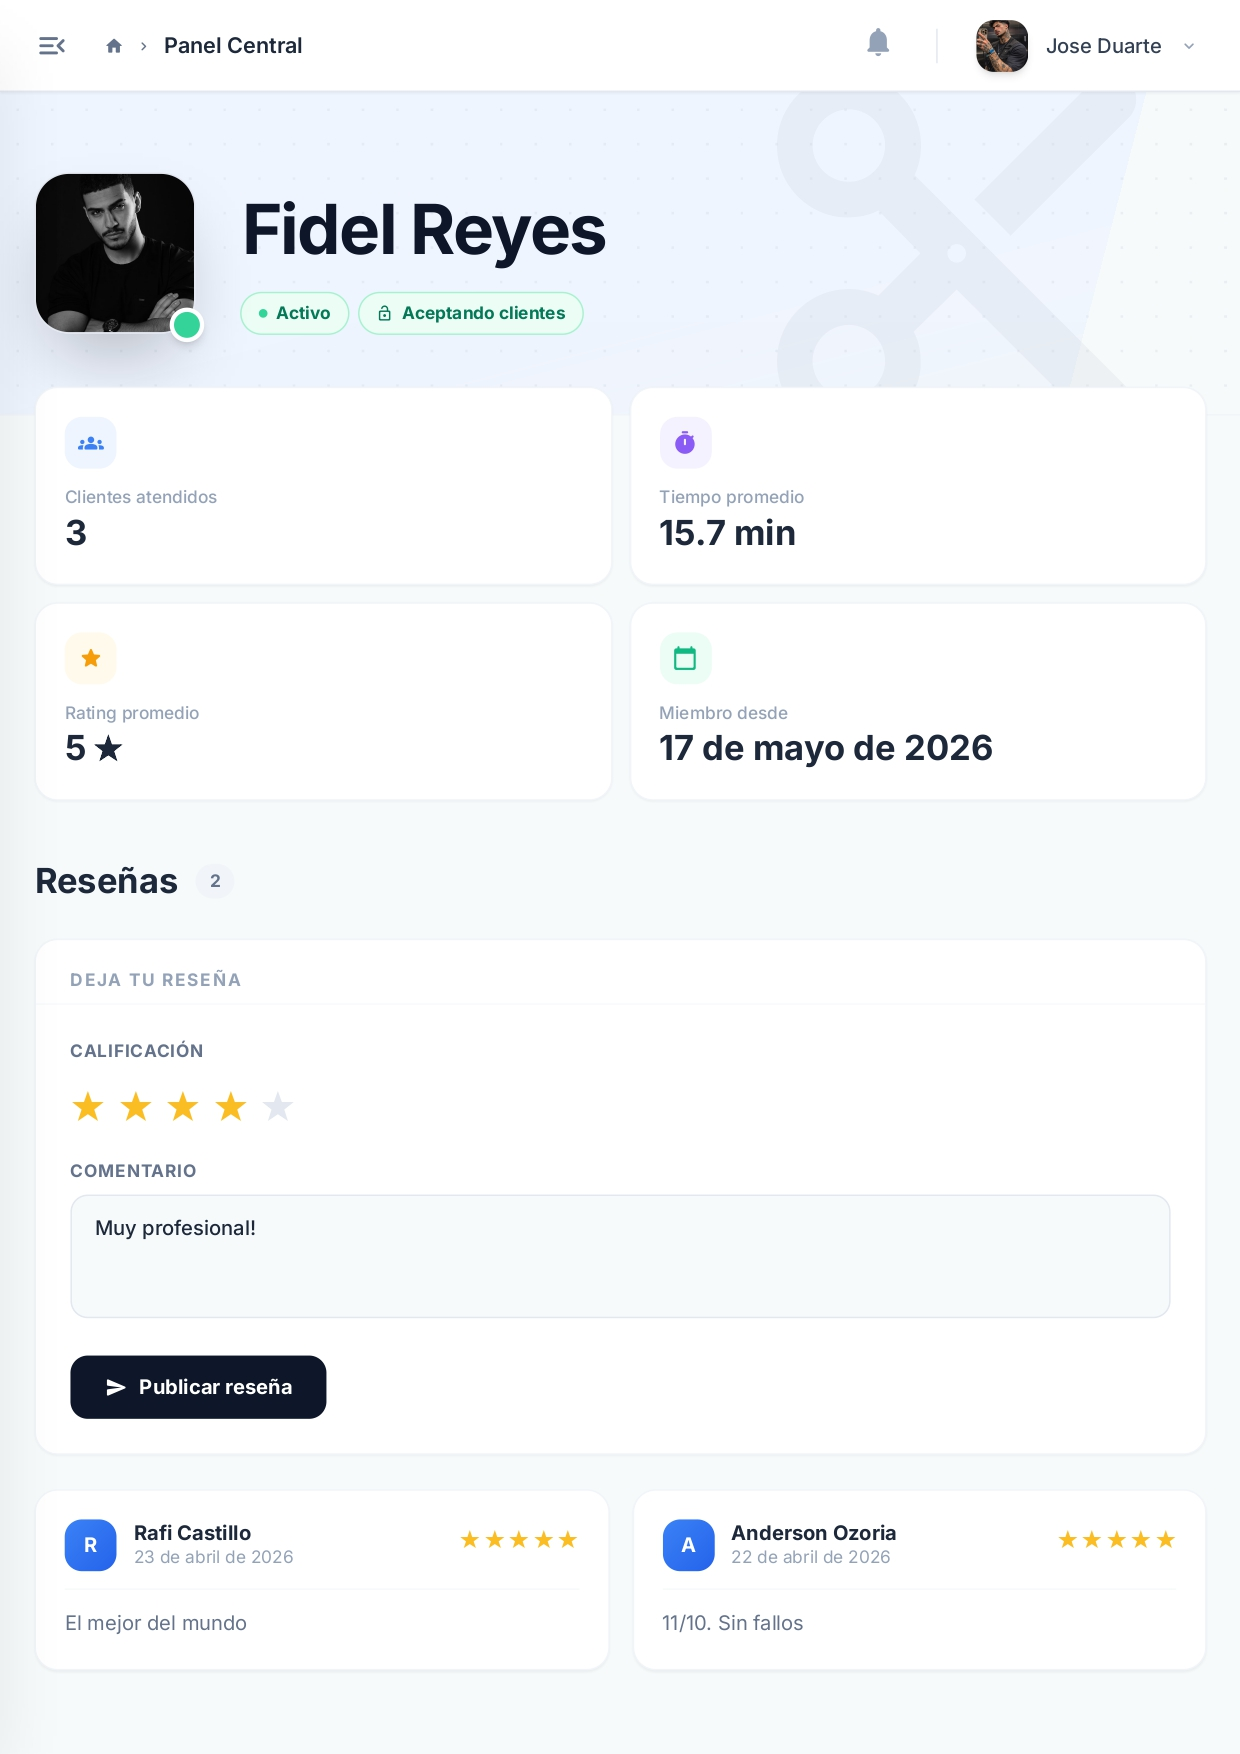
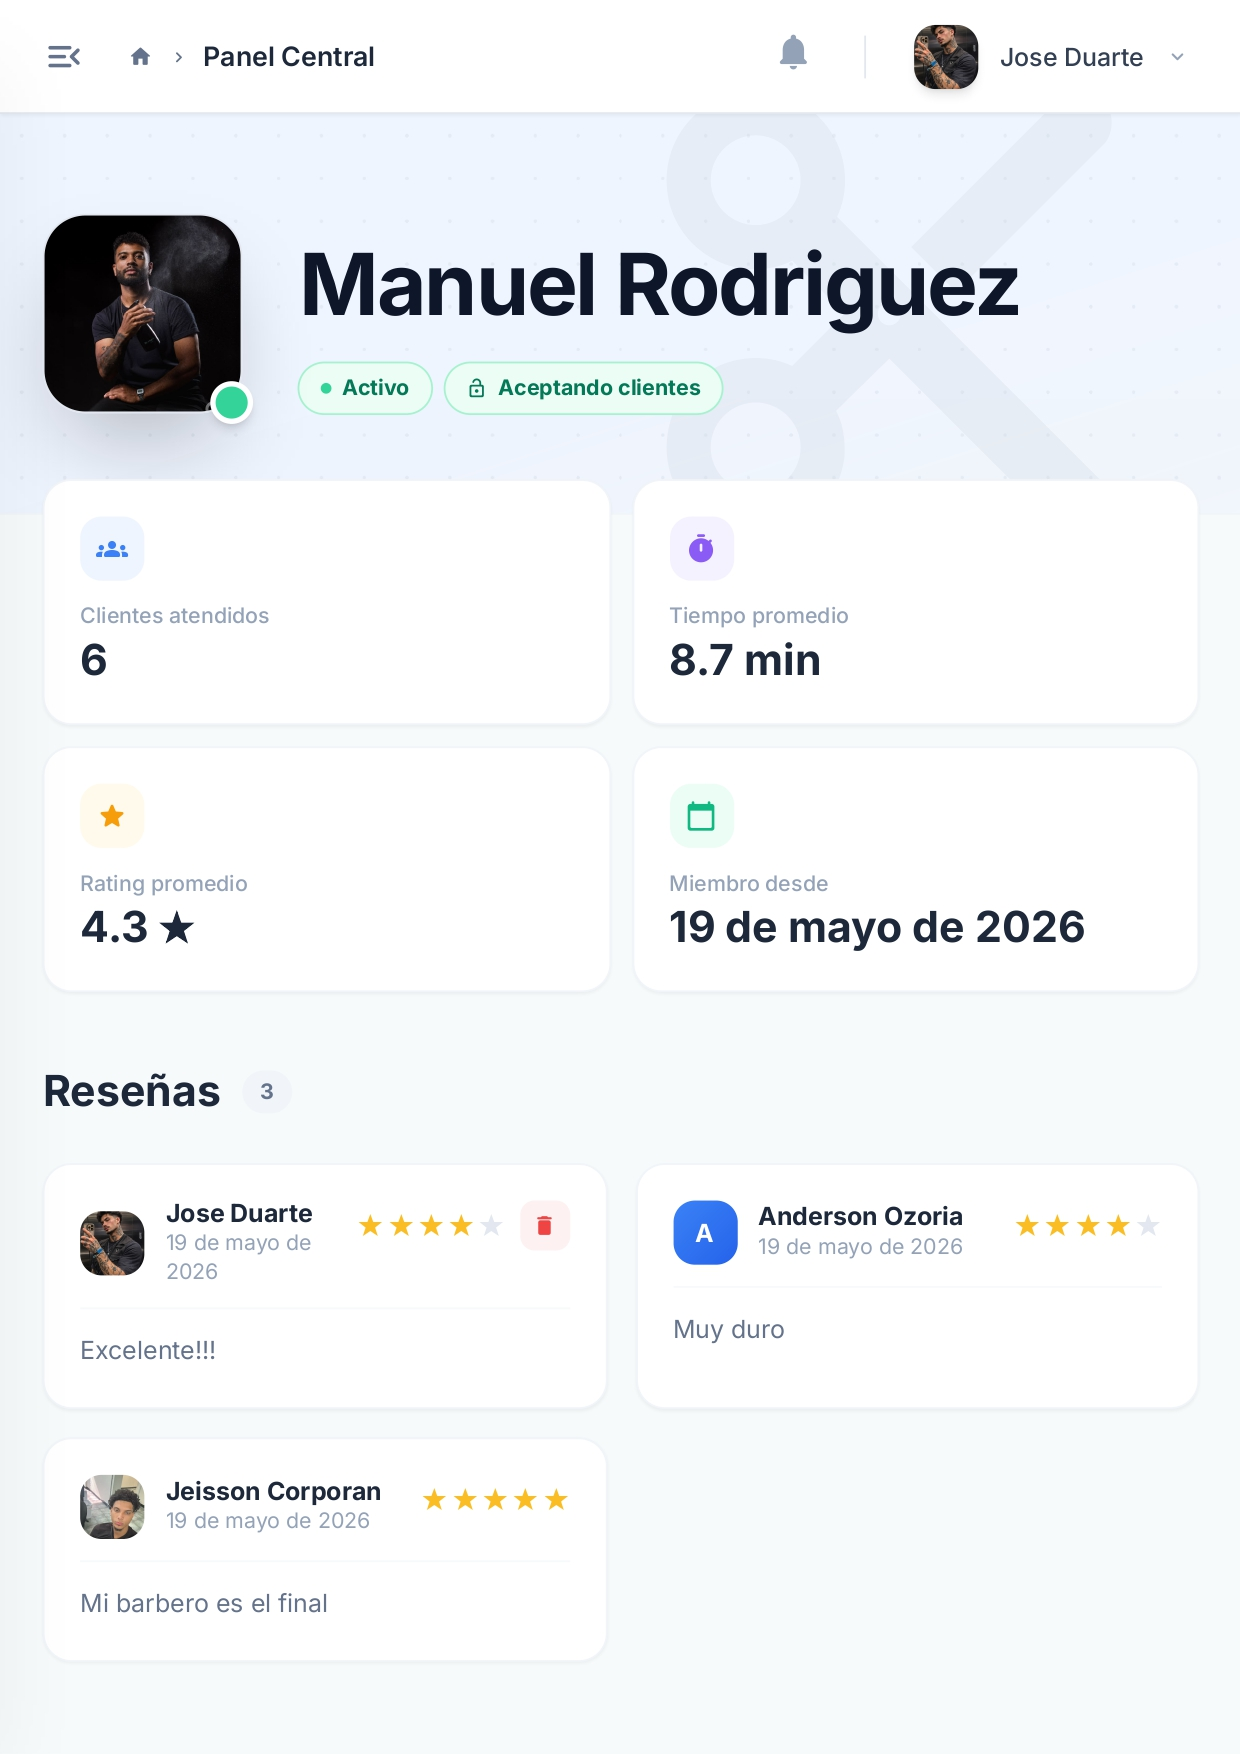
feat: improve client reviews photo

diff --git a/README.md b/README.md
@@ -388,8 +388,8 @@ pre-commit run --all-files
 
 ## Authors
 
-| Name                            | Contact                                                    |
-| ------------------------------- | ---------------------------------------------------------- |
+| Name                            | Contact                                                           |
+| ------------------------------- | ----------------------------------------------------------------- |
 | Roniel Antonio Sabala Germán    | [ronielsabala@gmail.com](mailto:ronielsabala@gmail.com)           |
 | Yerelin Vanessa Rosario Taveras | [yerelinrosario26@gmail.com](mailto:yerelinrosario26@gmail.com)   |
 | Jheinel Jesús Brown Curbata     | [jheinelbrown@gmail.com](mailto:jheinelbrown@gmail.com)           |
